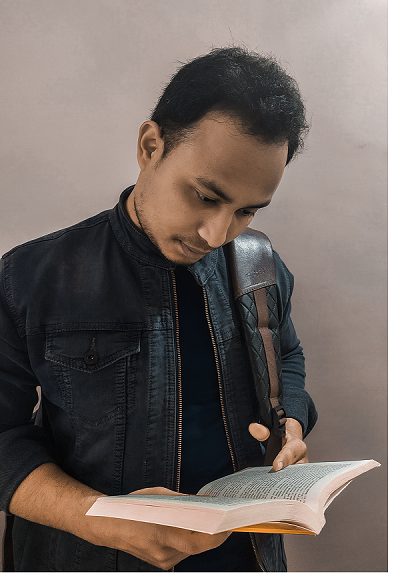
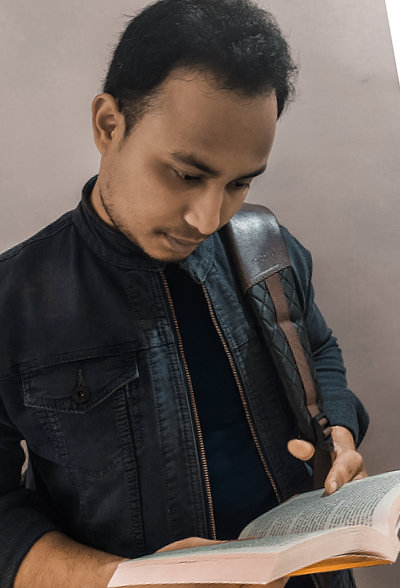
all

diff --git a/index.html b/index.html
@@ -40,7 +40,7 @@
         </header>
         <section>
             <h1>About me! </h1>
-            <p><img src="images/anirban.jpg" alt="Anirban Dutta" width="150" height="180" align="left" style="margin:8px 10px">Hi, I am Anirban Dutta, basically a Computer Science Engineering Graduate. My initial motive to join an engineering college was to learn and explore more about Information Technology. But those 4 years of engineering life ended up teaching me more than that.</p>
+            <p><img src="images/anirban.jpg" alt="Anirban Dutta" width="160" height="235" align="left" style="margin:8px 10px">Hi, I am Anirban Dutta, basically a Computer Science Engineering Graduate. My initial motive to join an engineering college was to learn and explore more about Information Technology. But those 4 years of engineering life ended up teaching me more than that.</p>
             <p> I'm really passionate about and have special abilities in <code><b>Computer Systems</b></code>, <code><b>Mobile Phones</b></code>, <code><b>Linux Servers</b></code>, <code><b>Web Technologies</b></code> and of course <code><b>Open Source</b></code>. I have been extensively using Google Search, Youtube and Social Media Platforms to learn all about these Technologies. Internet is our best friend, isn't it? 😉 </p>
             <p>These days I am working as a <b><code>freelance System Engineer and Wordpress Developer</code></b> on <a href="https://www.fiverr.com/anirbandutta858">Fiverr </a>, <a href="https://www.freelancer.com/hireme/anirbandutta999"> Freelancer </a> and <a href="https://www.truelancer.com/freelancer/anirbandutta4"> Truelancer </a>. I love to solve system and server related issues. Earlier, I have learned about Web Security, WordPress(CMS), PHP, Database etc and now using those experiences to build and setup small personal blogs and websites for clients on Linux Servers.&nbsp; <a href="hire/index.html">See all my work details</a>.</p>
             <p>
